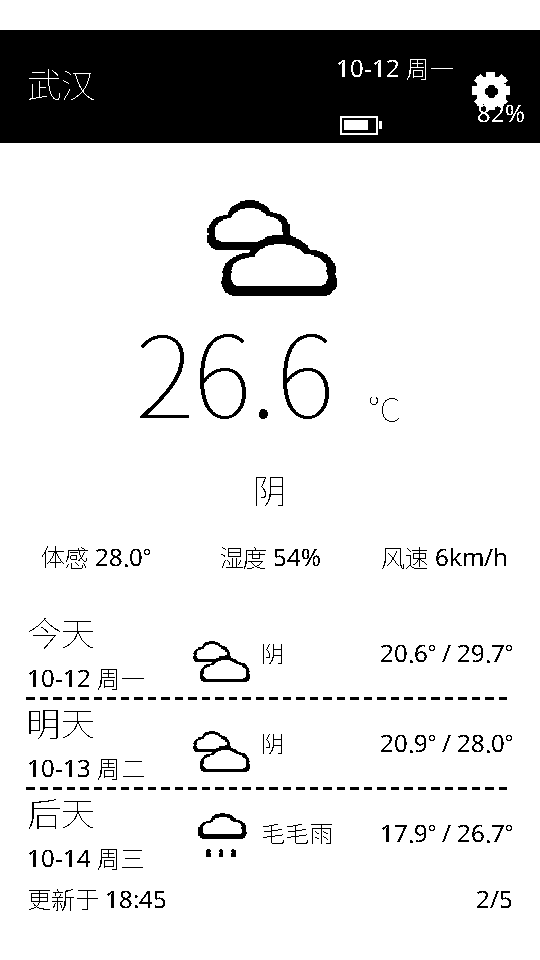
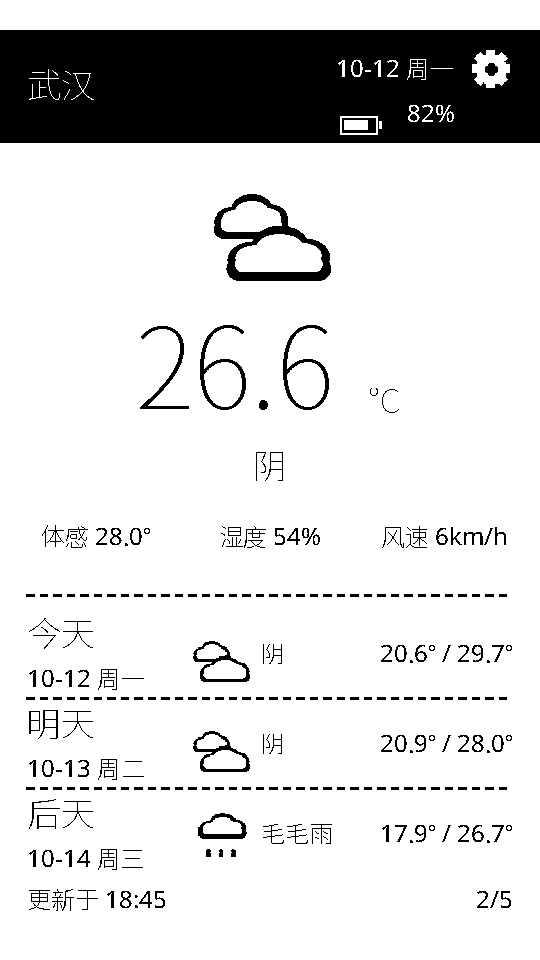
fix(papers3): 齿轮不再遮电量百分比 + 当前天气页节奏精修
- 电量百分比被齿轮压住的真正原因：drawLine 的 x 是文字盒子**左边界**，我按右边界
  传了 400，盒子实际落在 [400..462]，正好压在齿轮(412..452)下面 → 改为 batteryRight-62
- 齿轮上移到 y=14（原来 34，和 24px 电量的字顶几乎相接）
- 当前天气页（仅 PaperS3）：图标 128→116、温度基线上移 8、条件文字 424→402、
  指标行 478→460，并在三天列表上方加一条虚线分界，节奏与前后的留白一致
- 精修用 FREEINK_DEVICE_PAPERS3 分支包住，X4 渲染图仍**逐字节一致**（cmp 验证）

diff --git a/src/WeatherUi.cpp b/src/WeatherUi.cpp
@@ -203,9 +203,10 @@ void drawHeader(DrawTarget& target, const ScreenState& state) {
 #if FREEINK_DEVICE_PAPERS3
     // Leave the last 52 px for the settings gear: the whole strip opens settings,
     // the icon is what tells a touch user it is tappable.
+    // The gear owns the last 52 px of the strip; the battery ends where it starts.
     const int16_t batteryRight = static_cast<int16_t>(kWidth - kMargin - 52);
-    drawLine(target, freeink::ui::kNotoSansFont, kFontBody, batteryRight, 84, battery, TextAlign::Right, 62,
-             Color::White);
+    drawLine(target, freeink::ui::kNotoSansFont, kFontBody, static_cast<int16_t>(batteryRight - 62), 84,
+             battery, TextAlign::Right, 62, Color::White);
     drawBatteryGlyph(target, static_cast<int16_t>(batteryRight - 62 - 6 - 34), 76, state.batteryPercent);
 #else
     drawLine(target, freeink::ui::kNotoSansFont, kFontBody, kWidth - kMargin - 62, 84, battery,
@@ -217,7 +218,7 @@ void drawHeader(DrawTarget& target, const ScreenState& state) {
 #if FREEINK_DEVICE_PAPERS3
   {
     const BitmapRef gear{art::kGearBits, art::kGearWidth, art::kGearHeight, BitmapFormat::BW1, true};
-    target.bitmap(Rect{static_cast<int16_t>(kWidth - kMargin - 40), 34, art::kGearWidth, art::kGearHeight},
+    target.bitmap(Rect{static_cast<int16_t>(kWidth - kMargin - 40), 14, art::kGearWidth, art::kGearHeight},
                   gear, BitmapMode::Contain, Paint::solid(Color::White));
   }
 #endif
@@ -363,16 +364,36 @@ void drawHomePage(DrawTarget& target, const ScreenState& state) {
 void drawNowPage(DrawTarget& target, const WeatherReport& report) {
   const CurrentWeather& current = report.current;
 
-  drawIcon(target, conditionIcon(current.code, current.isDay), Rect{176, 128, 128, 128}, false);
+  // Rhythm: icon, big temperature, condition, metrics, then a rule that closes
+  // the block off from the three-day list. The PaperS3 gets the tightened
+  // rhythm; the X4 keeps the exact geometry it shipped with (its firmware comes
+  // from the frozen x4-c3 branch, and this file's X4 output stays byte-identical).
+#if FREEINK_DEVICE_PAPERS3
+  constexpr Rect kIconRect{182, 124, 116, 116};
+  constexpr int16_t kTempBaseline = 342;
+  constexpr int16_t kConditionBaseline = 402;
+  constexpr int16_t kMetricsBaseline = 460;
+  constexpr bool kRuleAboveList = true;
+#else
+  constexpr Rect kIconRect{176, 128, 128, 128};
+  constexpr int16_t kTempBaseline = 350;
+  constexpr int16_t kConditionBaseline = 424;
+  constexpr int16_t kMetricsBaseline = 478;
+  constexpr bool kRuleAboveList = false;
+#endif
+  drawIcon(target, conditionIcon(current.code, current.isDay), kIconRect, false);
 
   char number[16];
   formatTemp1(current.temperatureC, number, sizeof(number));
-  drawFigure(target, number, "°C", 350);
+  drawFigure(target, number, "°C", kTempBaseline);
 
-  drawLine(target, freeink::ui::kWeatherTitleFont, kFontTitle, 0, 424, conditionText(current.code),
-           TextAlign::Center, kWidth, Color::Black);
+  drawLine(target, freeink::ui::kWeatherTitleFont, kFontTitle, 0, kConditionBaseline,
+           conditionText(current.code), TextAlign::Center, kWidth, Color::Black);
 
-  drawMetricsRow(target, current, 478);
+  drawMetricsRow(target, current, kMetricsBaseline);
+  if (kRuleAboveList) {
+    drawDashedRule(target, static_cast<int16_t>(kRowsTop - 18), kMargin, kWidth - kMargin);
+  }
 
   for (uint8_t i = 0; i < kForecastDays; ++i) {
     const int16_t rowTop = static_cast<int16_t>(kRowsTop + i * kRowHeight);
